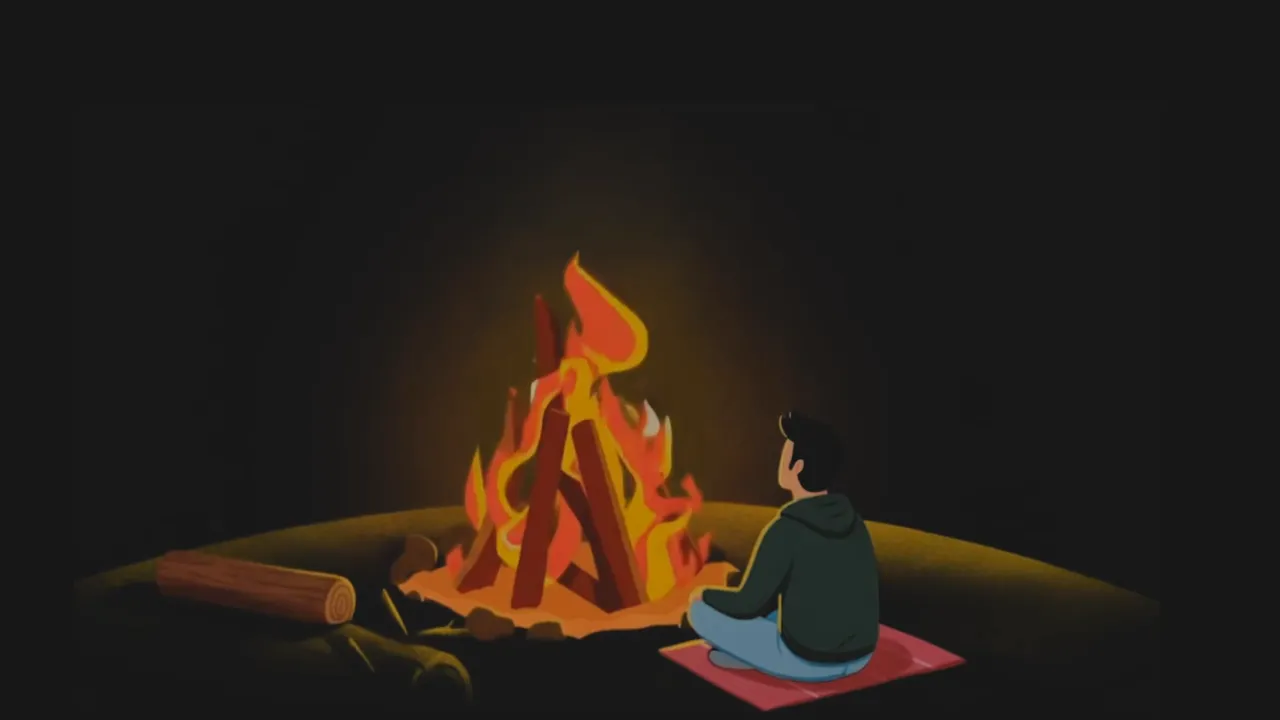
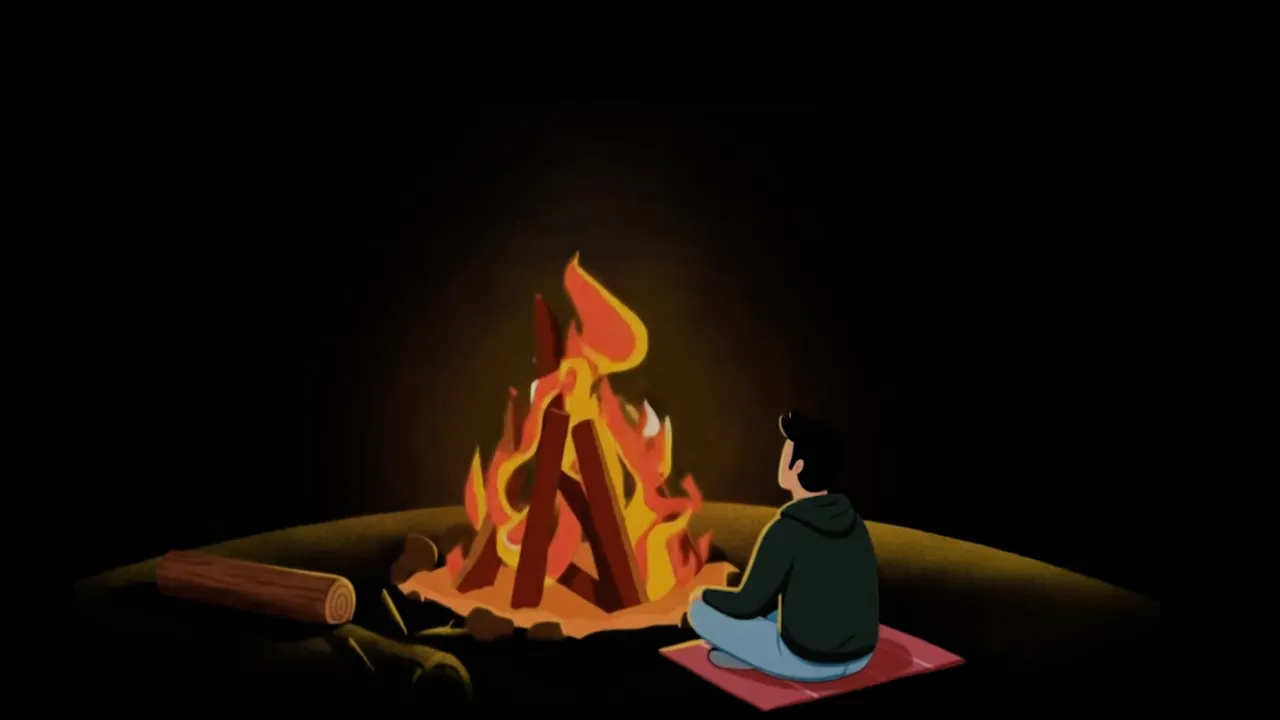
index

diff --git a/css/style.css b/css/style.css
@@ -66,7 +66,8 @@ body{
     height:3.5rem;
     border-radius: 50%; 
     background: url("/images/logo.png") no-repeat;
-    background-color: var(--primary-color);
+    /* background-color: var(--primary-color); */
+    background-color: #c3c3c6;
     background-size:3.5rem 3.5rem;
     /* cursor: pointer;  */
 	transition: all 0.3s ease-in-out;
@@ -139,6 +140,12 @@ body{
     background-color: rgba(255, 255, 255, .05);
 	transition: all 0.3s ease-in-out;
 	
+}
+.sidebar .footer-link:hover {    
+    /* color: #fff; */
+    /* border: 1px solid rgba(255, 255, 255, .2); */
+    background-color: rgba(255, 255, 255, .1);
+    transition: all 0.3s ease-in-out;
 }
 /* 导航菜单 - 统一图标的尺寸和显示方式 */
 .menu-icon {
@@ -231,7 +238,6 @@ body{
 main h2{
     font-family: 'NotoSansSC', "Arial Black", sans-serif;
     font-size:2rem;
-    /* line-height: 2.7rem; */
     color:var(--text-light);
     padding:7rem 0 4rem 0;
     font-weight: 700;
@@ -262,14 +268,17 @@ main li a{
     border-radius: 1.2rem;
 	transition: all 0.3s ease-in-out;
 	box-shadow: 0 1.25rem 1.25rem rgba(0, 0, 0, 0.1);
-	margin-top: 0.4rem;
+	transform: translateY(0);
+    /* transform: scale(1); */
 	}
 main li a:hover{
     transition: all 0.3s ease-in-out;
     box-shadow: 0 1.25rem 2.5rem rgba(0, 0, 0, 0.4);
-    /* width: 32rem; */
-	margin-top: 0;
-    filter: brightness(0.7);
+    filter: brightness(1.1);
+	transform: translateY(-0.4rem);
+    /* transform: scale(1.04);
+    z-index: 10;
+    position: relative; */
     }
 main li img{
     width: 100%;
